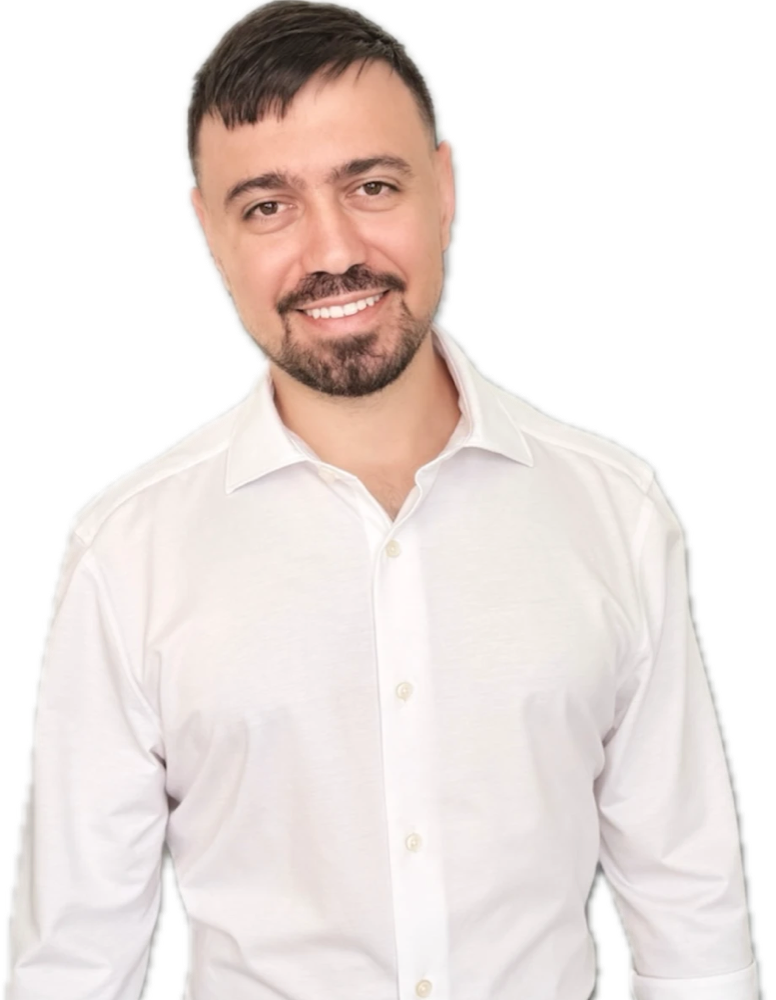
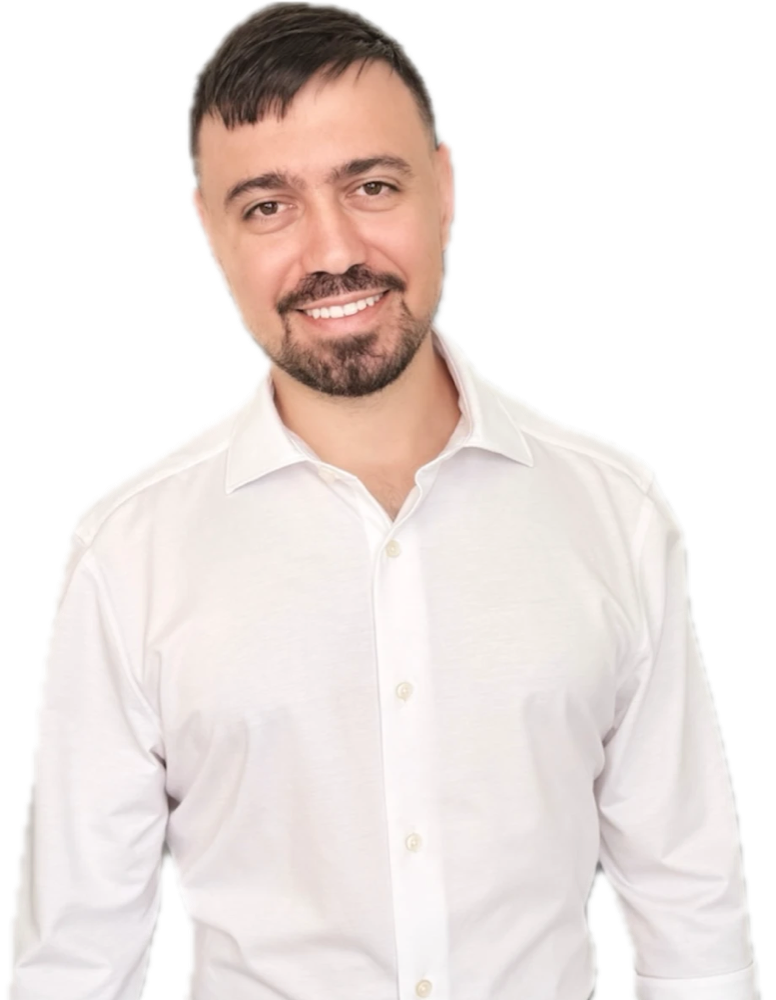
Background: restore framed original photo. Hero: calmer shadow and cleaned hair edge on the cutout

diff --git a/src/components/Sections.jsx b/src/components/Sections.jsx
@@ -2,7 +2,6 @@ import { useRef } from "react";
 import { motion, useReducedMotion, useScroll, useSpring, useTransform } from "framer-motion";
 import { ArrowUpRight, Phone } from "lucide-react";
 import { background, focus, profile, skills, ticker } from "../data";
-import Cutout from "./Cutout";
 import { Reveal, SectionHead, SpotlightCard, WordReveal } from "./motion";
 
 /* ---------- ticker ---------- */
@@ -123,14 +122,25 @@ function Portrait({ t }) {
       transition={{ duration: 0.9, ease: [0.22, 1, 0.36, 1] }}
       className="mx-auto w-full max-w-xs self-start lg:sticky lg:top-28 lg:max-w-none"
     >
-      <Cutout />
-      <figcaption className="-mt-4 text-center">
-        <p className="text-lg font-semibold">{t.name.join(" ")}</p>
-        <p className="mt-1 flex items-center justify-center gap-2 font-mono text-xs text-muted">
-          <span className="pulse-dot size-1.5 rounded-full bg-a1" />
-          {t.openToWork}
-        </p>
-      </figcaption>
+      <div className="bg-grad rounded-[2rem] p-[2px] shadow-[0_40px_90px_-30px_rgba(129,140,248,0.45)]">
+        <div className="relative overflow-hidden rounded-[calc(2rem-2px)] bg-bg-2">
+          <img
+            src={profile.photoFramed}
+            alt="Oded Atias"
+            width="900"
+            height="1000"
+            loading="lazy"
+            className="aspect-[9/10] w-full object-cover"
+          />
+          <div className="absolute inset-x-0 bottom-0 bg-gradient-to-t from-black/80 via-black/30 to-transparent p-5 pt-16">
+            <p className="text-lg font-semibold">{t.name.join(" ")}</p>
+            <p className="mt-0.5 flex items-center gap-2 font-mono text-xs text-fg/75">
+              <span className="pulse-dot size-1.5 rounded-full bg-a1" />
+              {t.openToWork}
+            </p>
+          </div>
+        </div>
+      </div>
     </motion.figure>
   );
 }

diff --git a/src/components/Cutout.jsx b/src/components/Cutout.jsx
@@ -3,7 +3,7 @@ import { profile } from "../data";
 const FADE = "linear-gradient(to bottom, #000 72%, transparent 100%)";
 
 /* Transparent-background portrait. The bottom edge dissolves into the page so the cropped
-   torso never shows a hard line; the soft shadow follows the silhouette, not a shape. */
+   torso never shows a hard line; a very soft shadow follows the silhouette. */
 export default function Cutout({ className = "", eager = false }) {
   return (
     <div
@@ -17,7 +17,7 @@ export default function Cutout({ className = "", eager = false }) {
         height="1180"
         loading={eager ? "eager" : "lazy"}
         fetchPriority={eager ? "high" : "auto"}
-        className="size-full object-cover [filter:drop-shadow(0_18px_36px_rgba(129,140,248,0.28))]"
+        className="size-full object-cover [filter:drop-shadow(0_10px_24px_rgba(129,140,248,0.12))]"
       />
     </div>
   );

diff --git a/src/data.js b/src/data.js
@@ -1,5 +1,6 @@
 export const profile = {
   photo: `${import.meta.env.BASE_URL}img/oded-cutout.png`,
+  photoFramed: `${import.meta.env.BASE_URL}img/oded-framed.jpg`,
   email: "oded.atias@gmail.com",
   phone: "054-811-8698",
   github: "https://github.com/odedati",
